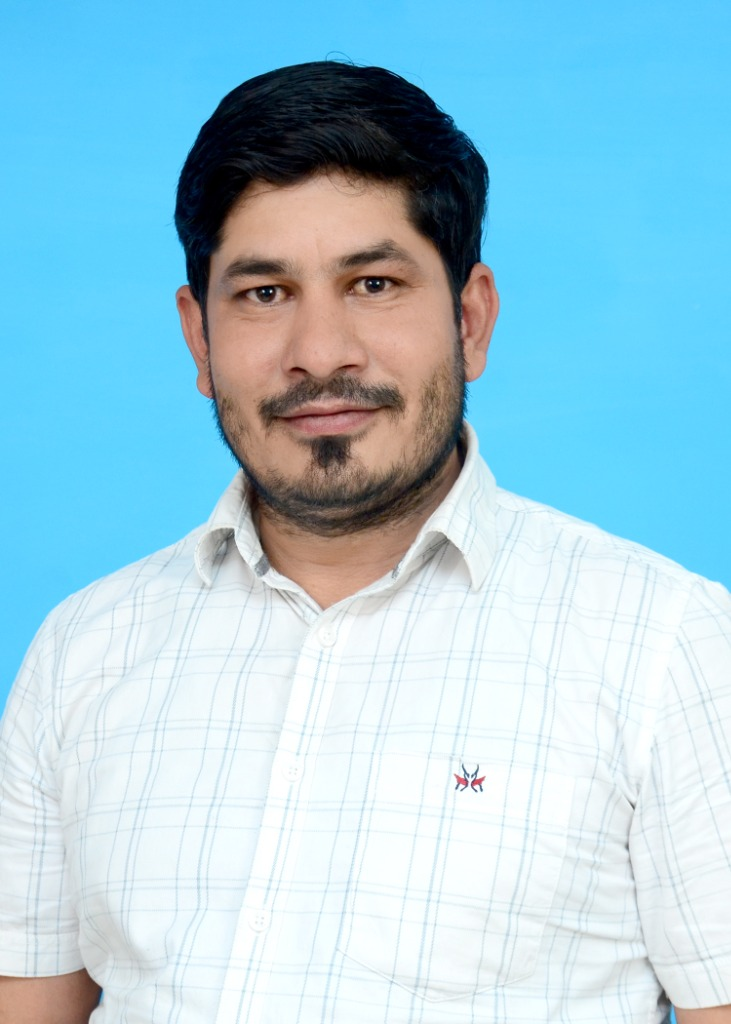
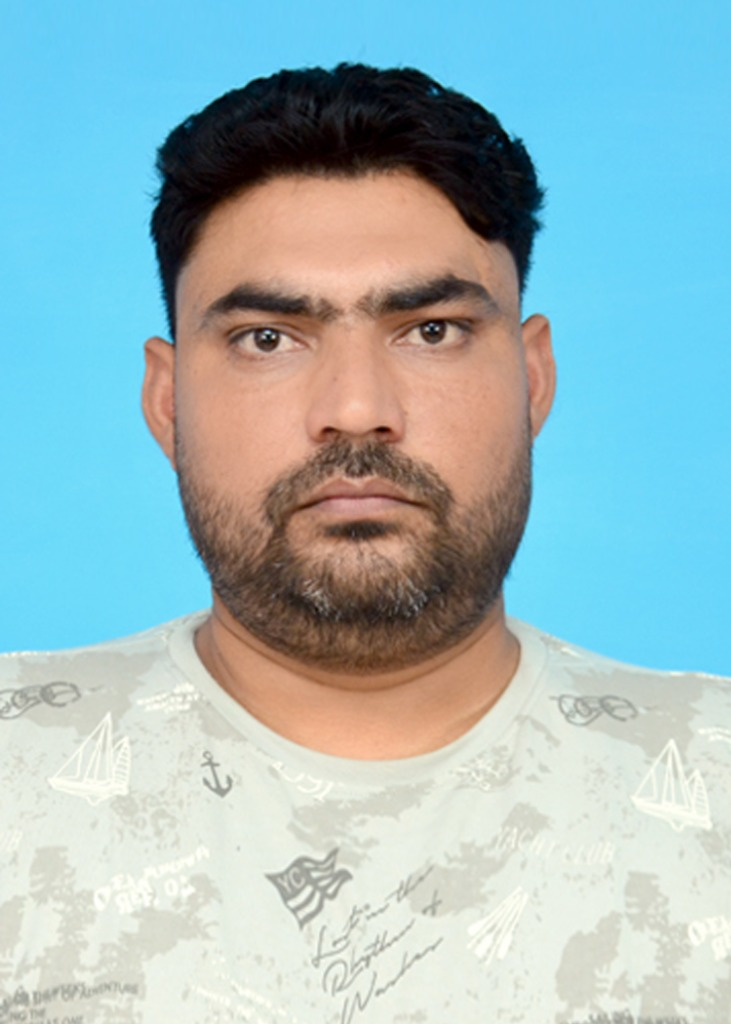
Update founder images, rephrase about us, remove phone number

diff --git a/index.html b/index.html
@@ -52,8 +52,8 @@
             <p>10+ Years Experience In Real Estate Projects</p>
           </div>
           <div class="about-content">
-            <p><strong>S N Developers</strong> is a leading real estate organization established in 2010 by Mr. Nitin Bhati and Rahul Goud, who has over 15+ years of experience in real estate market. S N Developers builds its name by delivering remarkable projects in the real estate market.</p>
-            <p>Over these years, the company has earned a unique combination of quality, value, trust & reliability. At S N Developers we're passionate about helping you achieve your real estate dreams. we have the expertise and dedication to guide you through every step of the process.</p>
+            <p><strong>S N Developers</strong> is a trusted real estate company founded in 2010 by Mr. Nitin Bhati and Mr. Rahul Goud. Together, our founders bring over 15 years of experience in the real estate market. We have built our reputation by delivering high-quality, successful projects.</p>
+            <p>Over the years, we have earned our clients' trust by providing great value and reliability. At S N Developers, we are dedicated to helping you achieve your real estate dreams and will guide you through every step of the process.</p>
           </div>
         </div>
       </section>
@@ -137,7 +137,6 @@
             <p>Building Trust, Delivering Value.</p>
           </div>
           <div class="footer-contact">
-            <p>📞 +91 8076146988</p>
             <p>📍 Shree Ji Vatika</p>
           </div>
         </div>